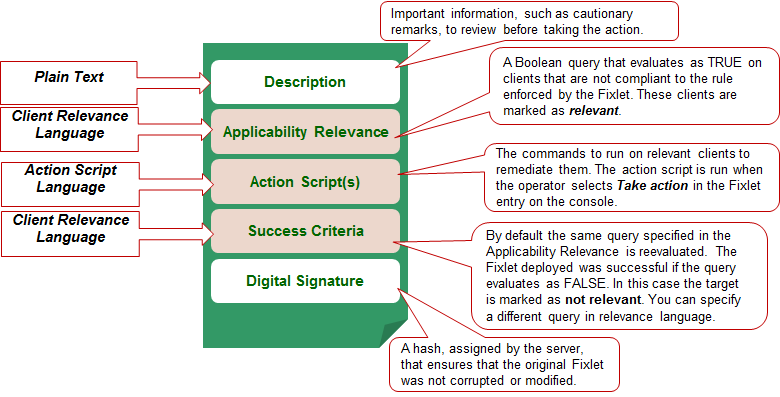
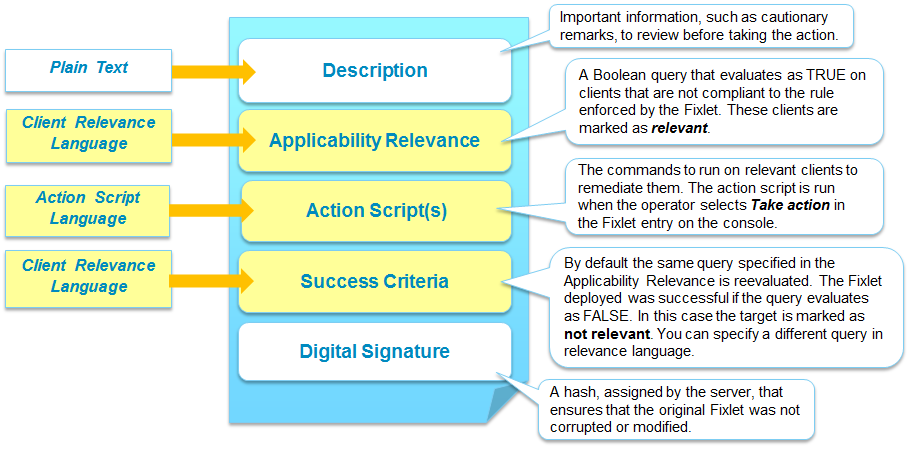
Update for blue images

diff --git a/site/pages/get-started/custom-content/analysis-structure.md b/site/pages/get-started/custom-content/analysis-structure.md
@@ -11,4 +11,5 @@ For each part in the analysis structure, you see:
 * On the right, an explanation of its role within the logic of the analysis.
 * On the left, the language to use to create or modify that part. You can access the available information about that specific language by clicking the box or selecting the corresponding entry in the main toolbar.
 
-![Structure of an Analysis](/static/img/analysis-structure.png "Structure of an Analysis")
+<img src="/static/img/analysis-structure.png" width="100%" title="Structure of an Analysis">
+

diff --git a/site/pages/get-started/custom-content/baseline-structure.md b/site/pages/get-started/custom-content/baseline-structure.md
@@ -10,4 +10,5 @@ For each part in the baseline structure, you see:
 * On the right, an explanation of its role within the logic of the baseline.
 * On the left, the language to use to create or modify that part. You can access the available information about that specific language by clicking the box or selecting the corresponding entry in the main toolbar.
 
-![Structure of a Baseline](/static/img/baseline-structure.png "Structure of a Baseline")
+<img src="/static/img/baseline-structure.png" width="100%" title="Structure of a Baseline">
+

diff --git a/site/pages/get-started/integrate-external-applications.md b/site/pages/get-started/integrate-external-applications.md
@@ -5,6 +5,6 @@ title: Integrate with External Applications
 The following graphic shows sample customizations that you can do to integrate BigFix with external applications and resources,  
 the language and API involved.
 
-![Customize Integrations](/static/img/customize-integrations.png "Customize Integrations")
+<img src="/static/img/customize-integrations.png" width="100%" title="Customize Integrations">
 
 The language highlighted in the graphic operates on data collected on the clients and stored in the BigFix database.

diff --git a/site/pages/get-started/custom-content/fixlet-structure.md b/site/pages/get-started/custom-content/fixlet-structure.md
@@ -11,4 +11,4 @@ For each part in the Fixlet structure, you see:
 * On the right, an explanation of its role within the logic of the Fixlet.
 * On the left, the language to use to create or modify that part. You can access the available information about that specific language by clicking the box or selecting the corresponding entry in the main toolbar.
 
-![Structure of a Fixlet](/static/img/fixlet-structure.png "Structure of a Fixlet")
+<img src="/static/img/fixlet-structure.png" width="100%" title="Structure of a Fixlet">

diff --git a/site/pages/get-started/custom-content/task-structure.md b/site/pages/get-started/custom-content/task-structure.md
@@ -11,4 +11,4 @@ For each part in the task structure, you see:
 * On the right, an explanation of its role within the logic of the task.
 * On the left, the language to use to create or modify that part. You can access the available information about that specific language by clicking the box or selecting the corresponding entry in the main toolbar.
 
-![Structure of a Task](/static/img/task-structure.png "Structure of a Task")
+<img src="/static/img/task-structure.png" width="100%" title="Structure of a Task">

diff --git a/site/pages/get-started/customize-user-interfaces.md b/site/pages/get-started/customize-user-interfaces.md
@@ -5,7 +5,7 @@ title: Customize User Interfaces
 The following graphic shows sample customizations that you can do to implement your custom user interface,  
 the language and API involved.
 
-![Customize Interfaces](/static/img/customize-interfaces.png "Customize Interfaces")
+<img src="/static/img/customize-interfaces.png" width="100%" title="Customize Interfaces">
 
 The language highlighted in the graphic operates on data collected on the clients and stored in the BigFix database.
 
